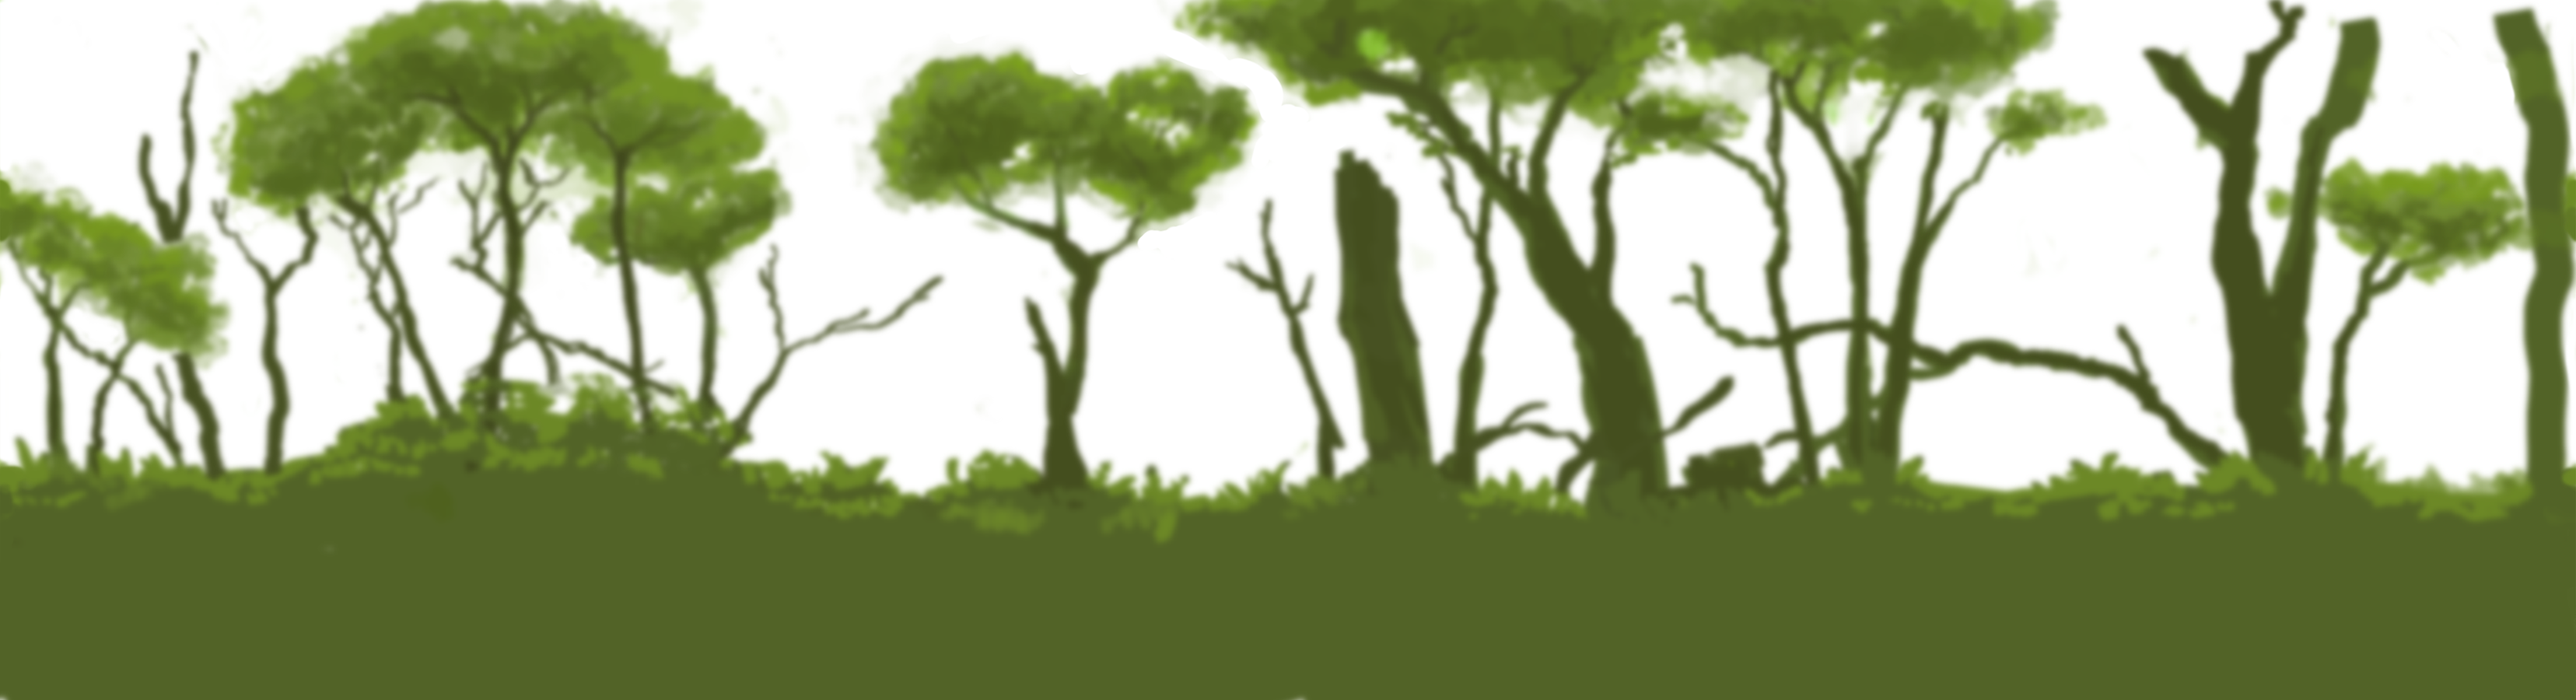
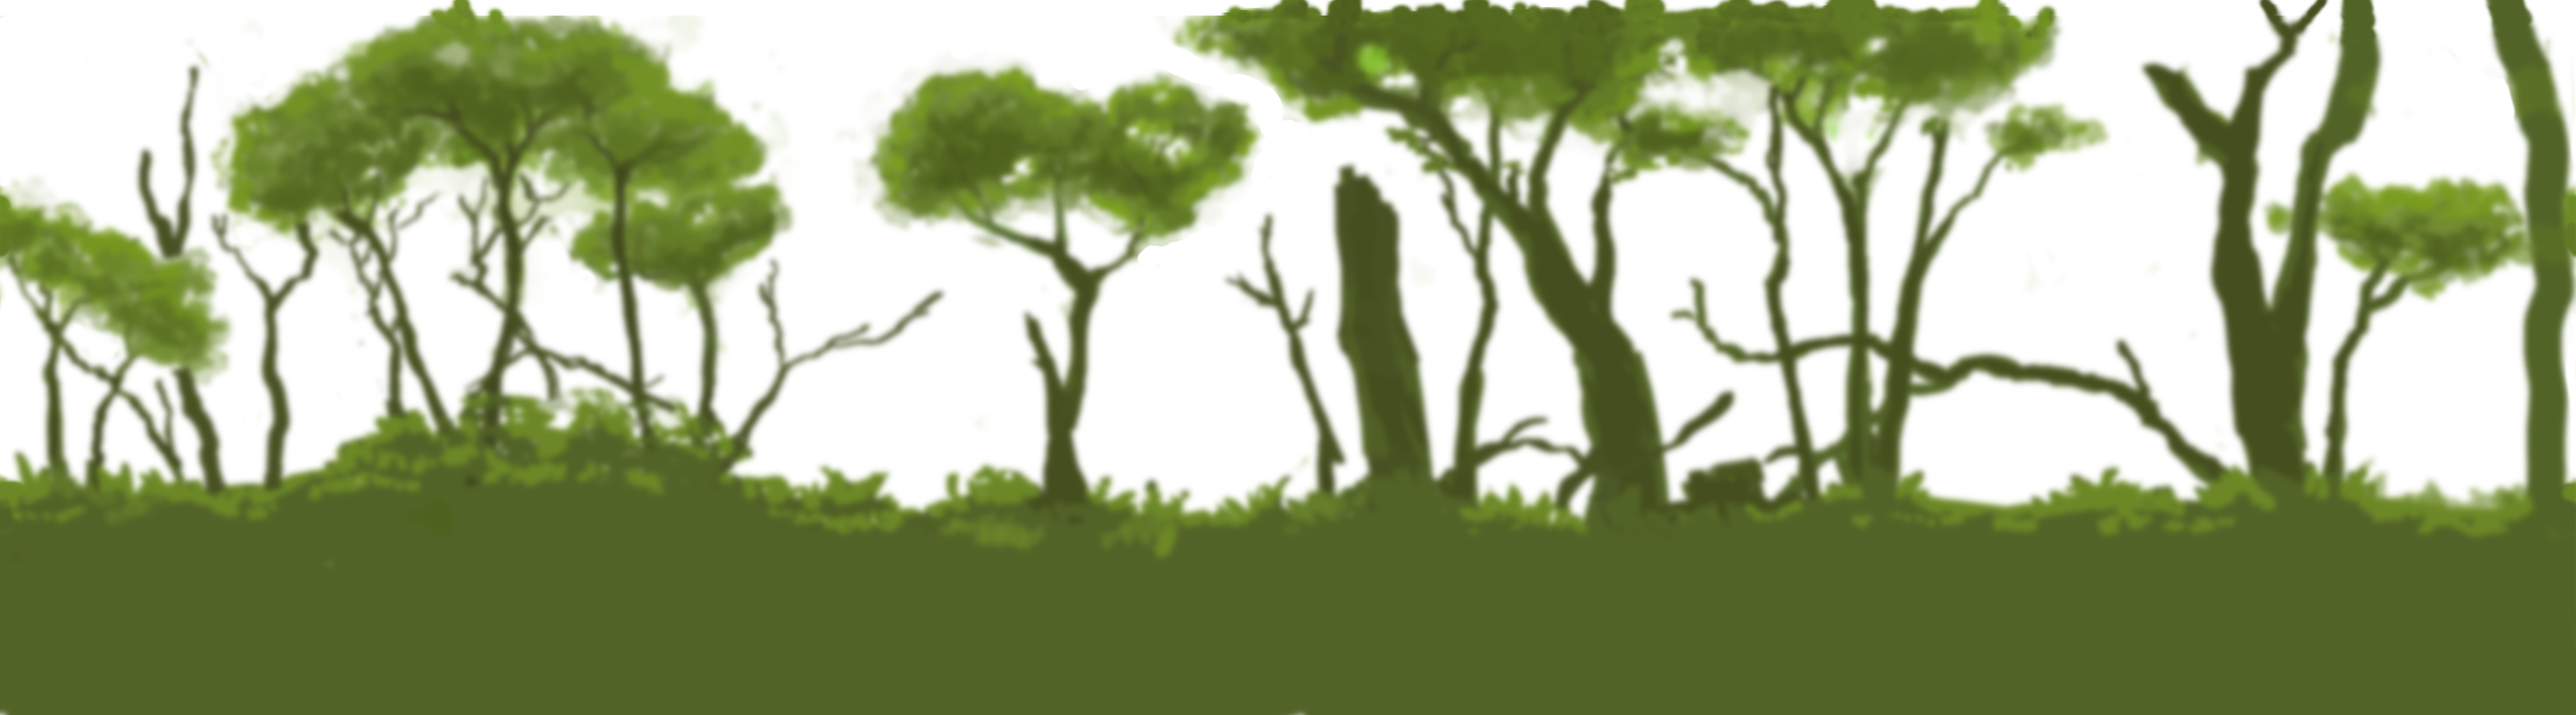
adjusted parallax background by extending some of the layers vertically.

Changed region(s): [[0.0, 0.0, 1.0, 0.7467], [0.9952, 0.4978, 1.0, 0.56], [0.1866, 0.0933, 0.2177, 0.1244]]

diff --git a/src/Gameplay/Gameplay.java b/src/Gameplay/Gameplay.java
@@ -39,6 +39,7 @@ public class Gameplay implements Reactor
 
     private final int BACKGROUND_LAYER_COUNT = 4;
     private Image[] backgroundLayer = new Image[BACKGROUND_LAYER_COUNT];
+    private int[] backgroundLayerOffsetY = new int[BACKGROUND_LAYER_COUNT];
     private ImagePattern backgroundTexturePattern;
 
     public Gameplay(Group root, GraphicsContext context, Gamepad[] gamepads)
@@ -54,6 +55,10 @@ public class Gameplay implements Reactor
             String name = "/Image/MossyWoods-Background_"+i+".png";
             backgroundLayer[i] = new Image(name);
         }
+        backgroundLayerOffsetY[0] = 0;
+        backgroundLayerOffsetY[1] = 20;
+        backgroundLayerOffsetY[2] = 60;
+        backgroundLayerOffsetY[3] = 140;
 
         /* Set up initial position and zoom of the camera */
         moveCamera(0, 0, 100, 10, true);
@@ -359,23 +364,18 @@ public class Gameplay implements Reactor
     private void renderBackground()
     {
         /* Clear canvas */
-        //context.clearRect(0, 0, context.getCanvas().getWidth(),
-        //        context.getCanvas().getHeight());
+        context.clearRect(0, 0, context.getCanvas().getWidth(),
+                context.getCanvas().getHeight());
 
         //System.out.println("cameraPos=("+cameraPosX+", " + +cameraPosY + ")   cameraOffset=("+cameraOffsetX+", "+ cameraOffsetY + ")   zoom="+cameraZoom);
         for (int i=0; i<BACKGROUND_LAYER_COUNT; i++)
         {
             double layerZoom = cameraZoom/(1+BACKGROUND_LAYER_COUNT-i);
-            double x = viewWidth/2 - backgroundLayer[0].getWidth()/2 - (cameraPosX + cameraOffsetX)*layerZoom;
-            double y = -220 - (cameraPosY + cameraOffsetY)*layerZoom/4;
-
+            double x = 100+ viewWidth/2 - backgroundLayer[0].getWidth()/2 - (cameraPosX + cameraOffsetX)*layerZoom;
+            double y = -120;
+            if (i>0) y = (y - (cameraPosY + cameraOffsetY)*layerZoom/2) - backgroundLayerOffsetY[i];
             context.drawImage(backgroundLayer[i], x,y);
         }
-
-
-        //cameraOffsetX = viewWidth / 2F / cameraZoom;
-        //cameraOffsetY = viewHeight / 2F / cameraZoom;
-
     }
 
     public static void main(String[] args)
